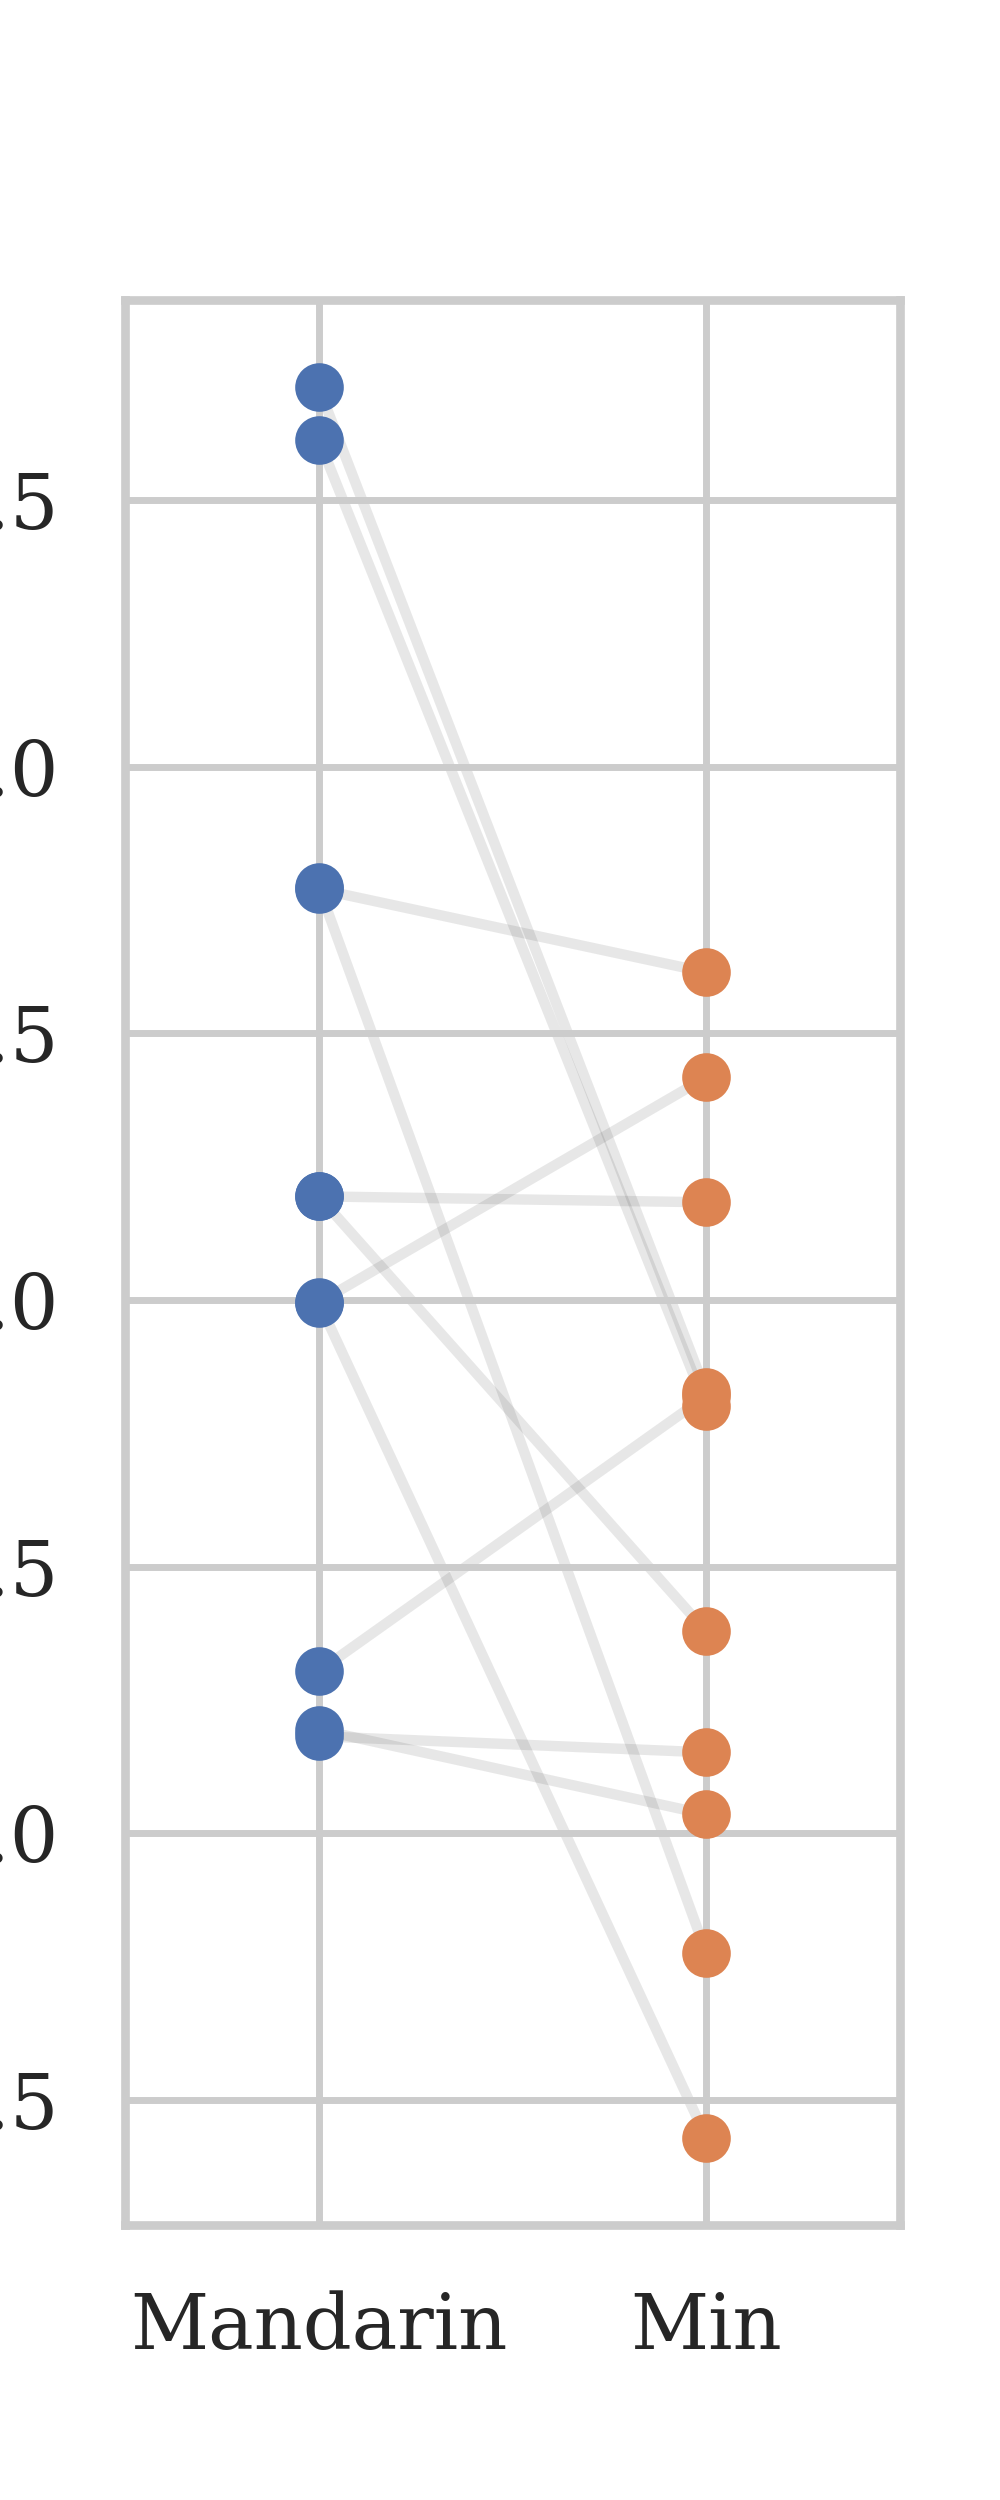
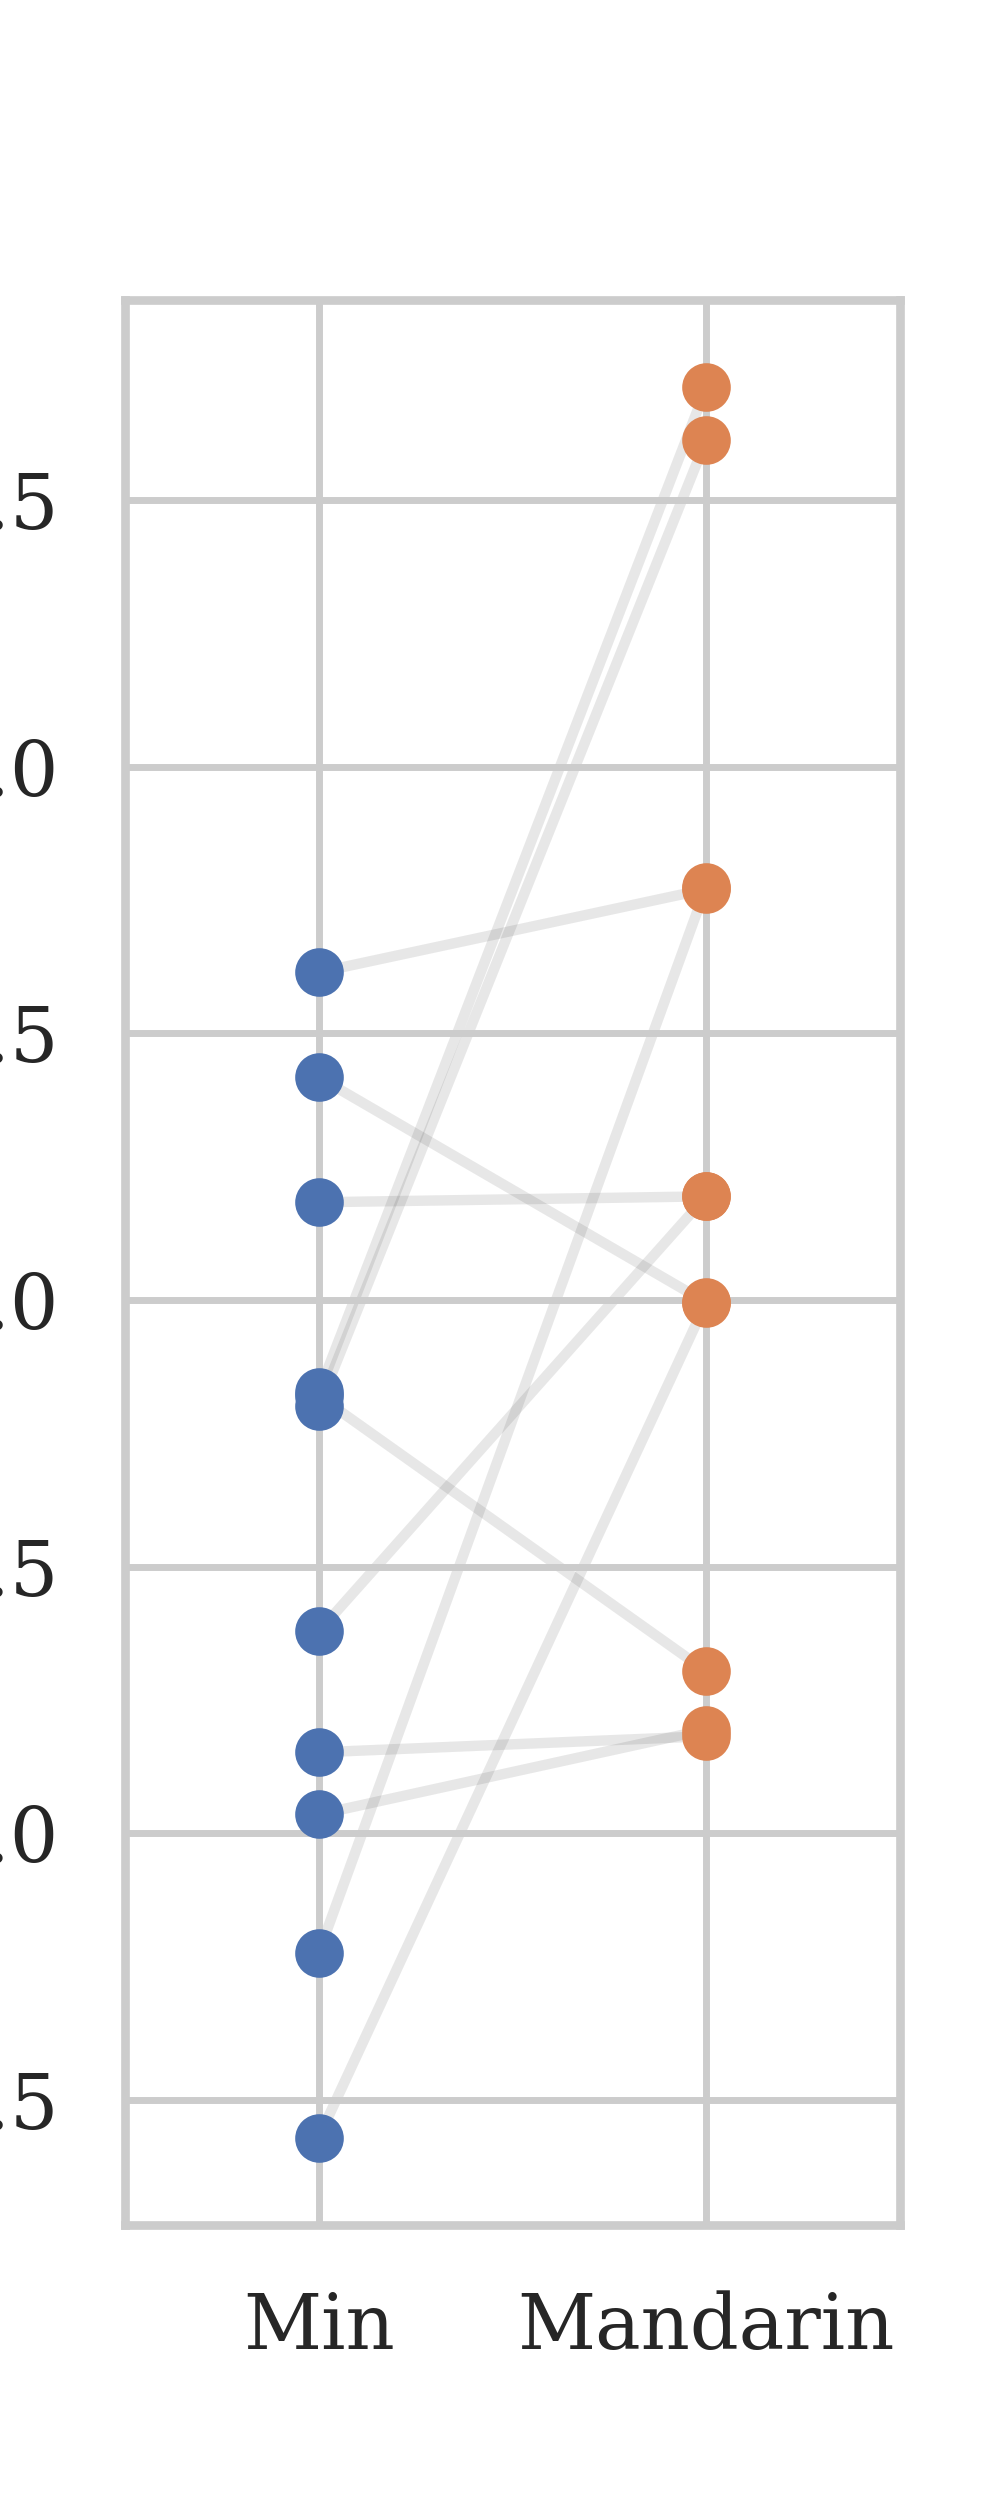
Changed LMM model plots

diff --git a/Main.tex b/Main.tex
@@ -502,17 +502,31 @@ Tonal coarticulation of Taiwan Mandarin and Taiwan Southern Min in carry-over an
 
 \begin{figure}[hbt!]
 \centering
-\includegraphics[scale=.45, trim={0 .5cm 0 0}]{Figures/E1/Carryover.png}
-\caption{Fitted LMM model of tone onsets and offsets in carry-over positions.}
+\includegraphics[scale=.45, trim={0 .5cm 0 0}]{Figures/E1/Carryover_lang_seperated.png}
+\caption{Fitted LMM model of tone onsets and offsets in carry-over positions (left: Taiwan Mandarin; right: Taiwan Southern Min).}
 \label{Figure:LMMCarryover}
 \end{figure}
 
 \begin{figure}[hbt!]
 \centering
-\includegraphics[scale=.45, trim={0 .5cm 0 0}]{Figures/E1/Anticipatory.png}
-\caption{Fitted LMM model of tone onsets and offsets in anticipatory positions.}
+\includegraphics[scale=.45, trim={0 .5cm 0 0}]{Figures/E1/Anticipatory_lang_seperated.png}
+\caption{Fitted LMM model of tone onsets and offsets in carry-over positions (left: Taiwan Mandarin; right: Taiwan Southern Min).}
 \label{Figure:LMMAnticipatory}
 \end{figure}
+
+%\begin{figure}[hbt!]
+%\centering
+%\includegraphics[scale=.45, trim={0 .5cm 0 0}]{Figures/E1/Carryover.png}
+%\caption{Fitted LMM model of tone onsets and offsets in carry-over positions.}
+%\label{Figure:LMMCarryover}
+%\end{figure}
+%
+%\begin{figure}[hbt!]
+%\centering
+%\includegraphics[scale=.45, trim={0 .5cm 0 0}]{Figures/E1/Anticipatory.png}
+%\caption{Fitted LMM model of tone onsets and offsets in anticipatory positions.}
+%\label{Figure:LMMAnticipatory}
+%\end{figure}
 
 In general, tonal coarticulation in Taiwan Mandarin and Taiwan Southern Min were almost identical in both directionality and magnitudes. Symmetries were found in both languages, and no difference of magnitude was found. This can be summarized in tables \ref{table:MandarinMinDistribution} and \ref{table:MandarinMinDistributionComparison}.
 
